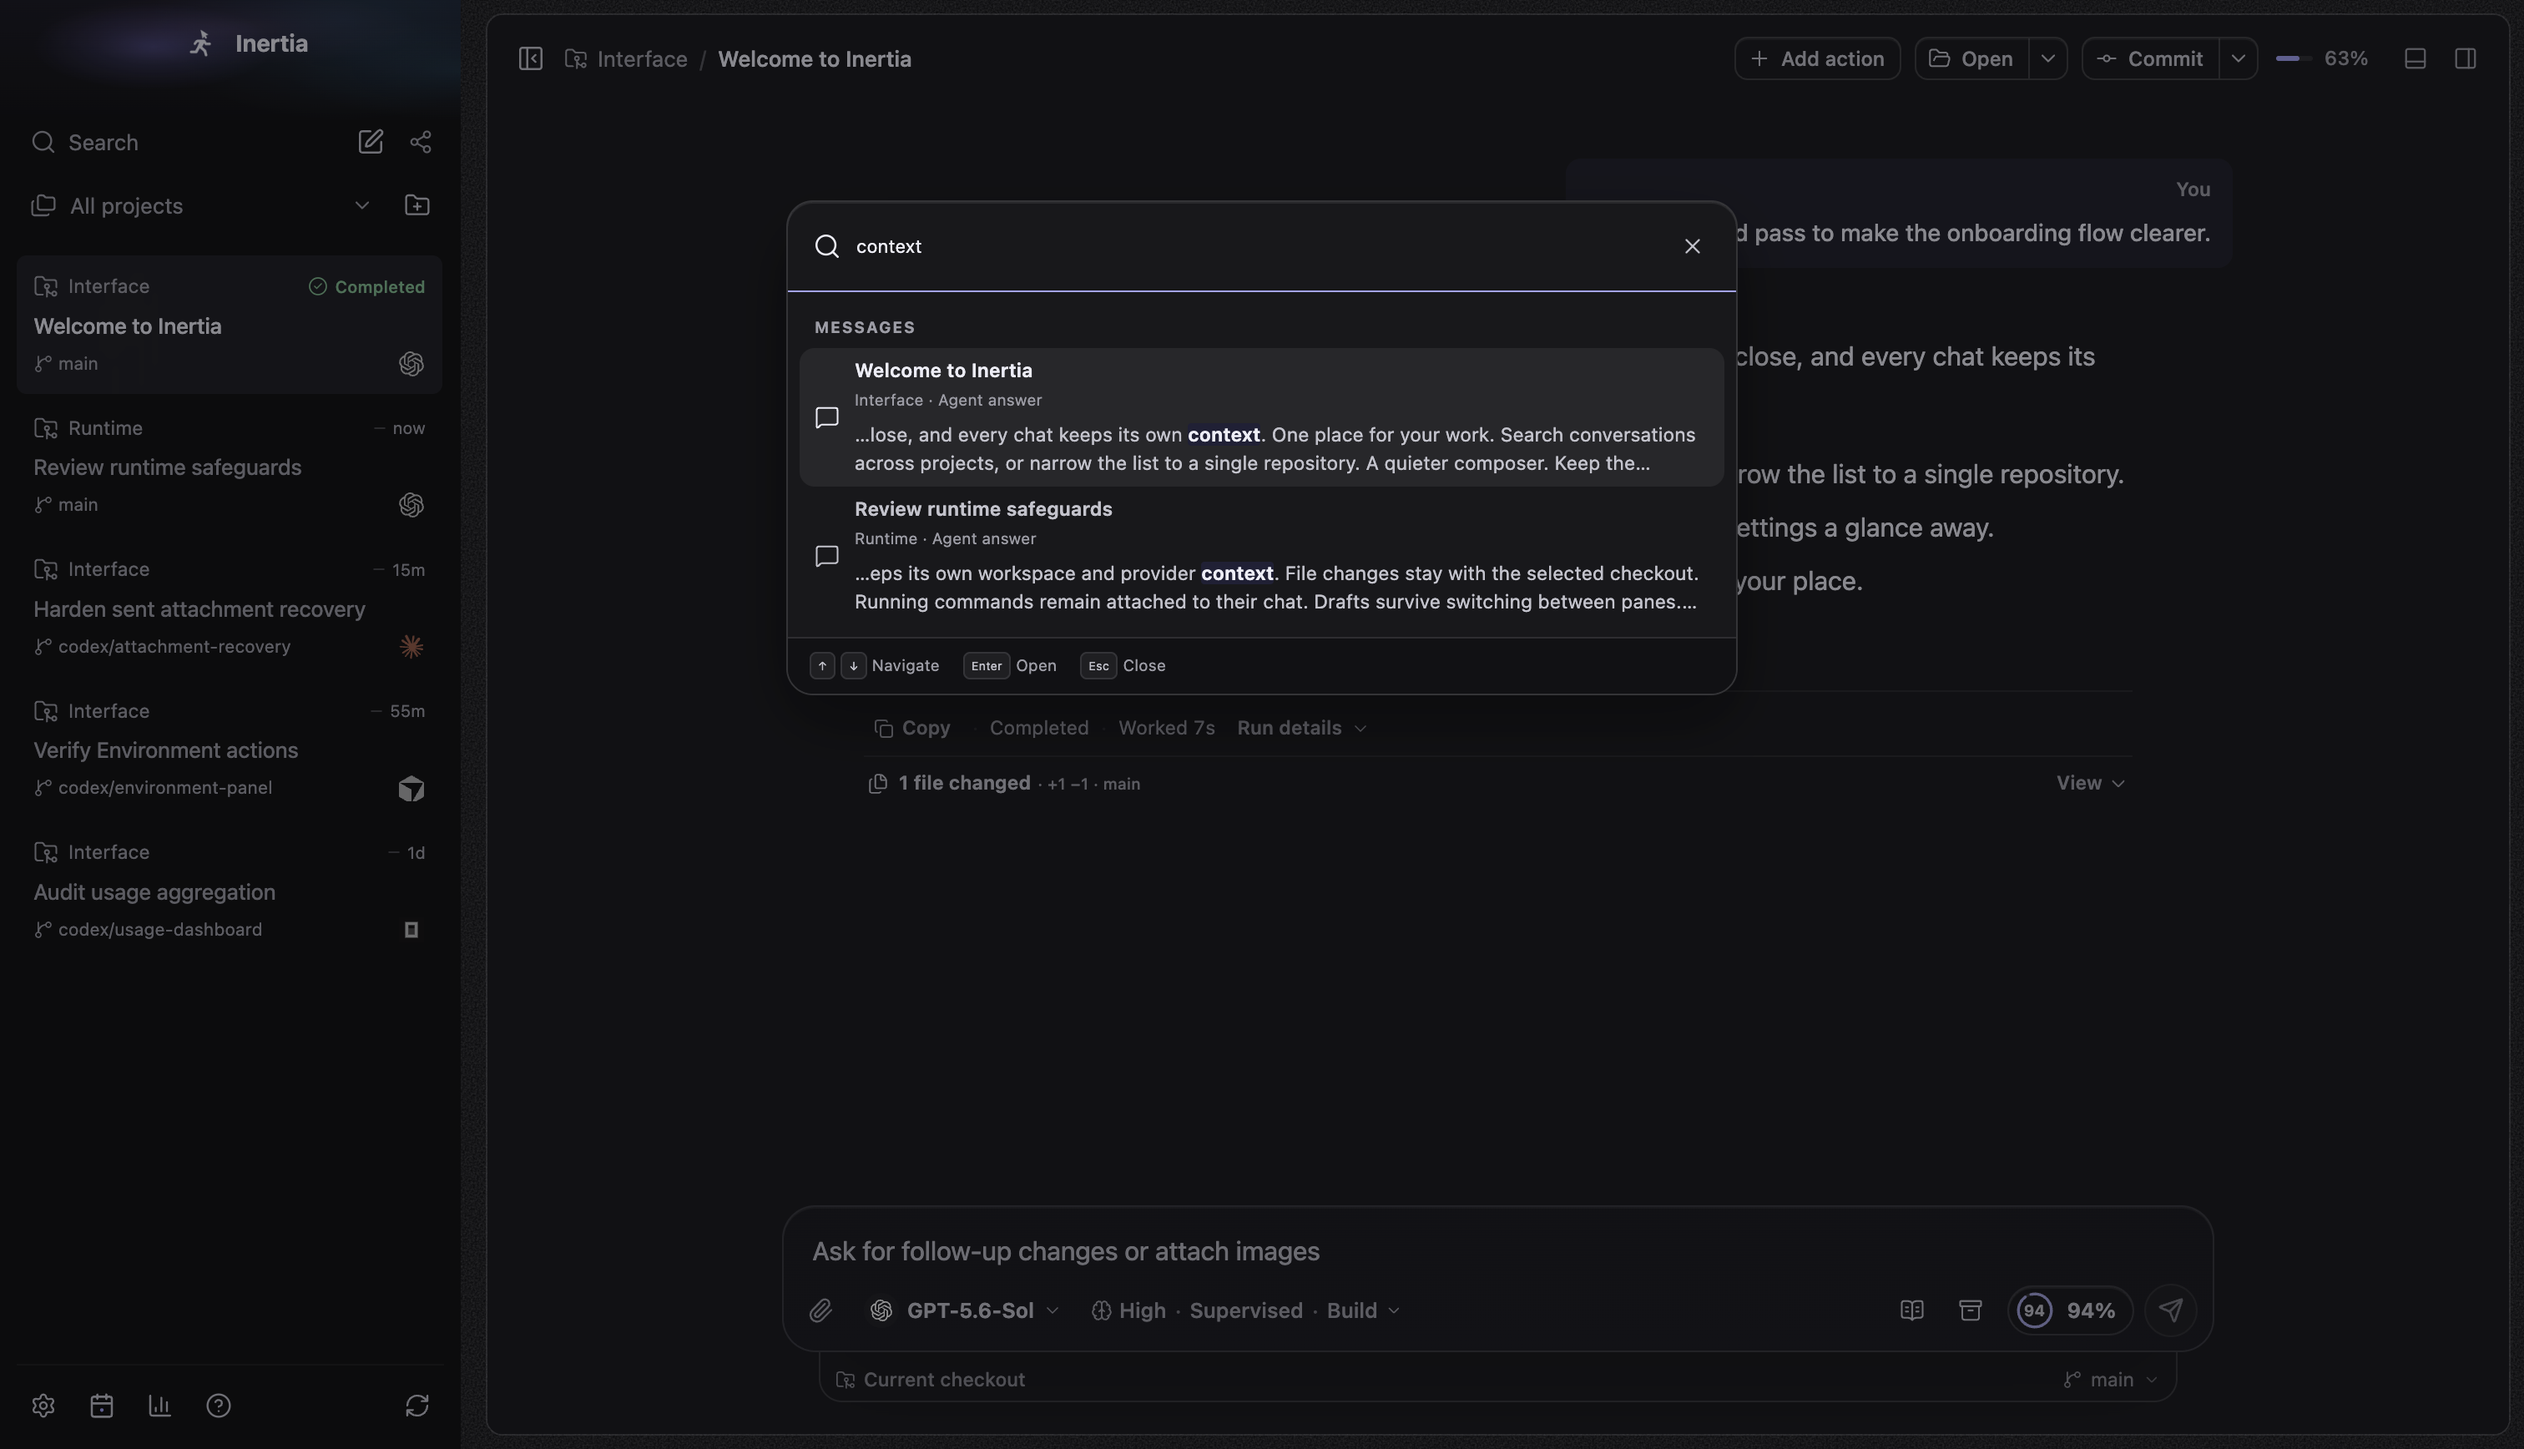
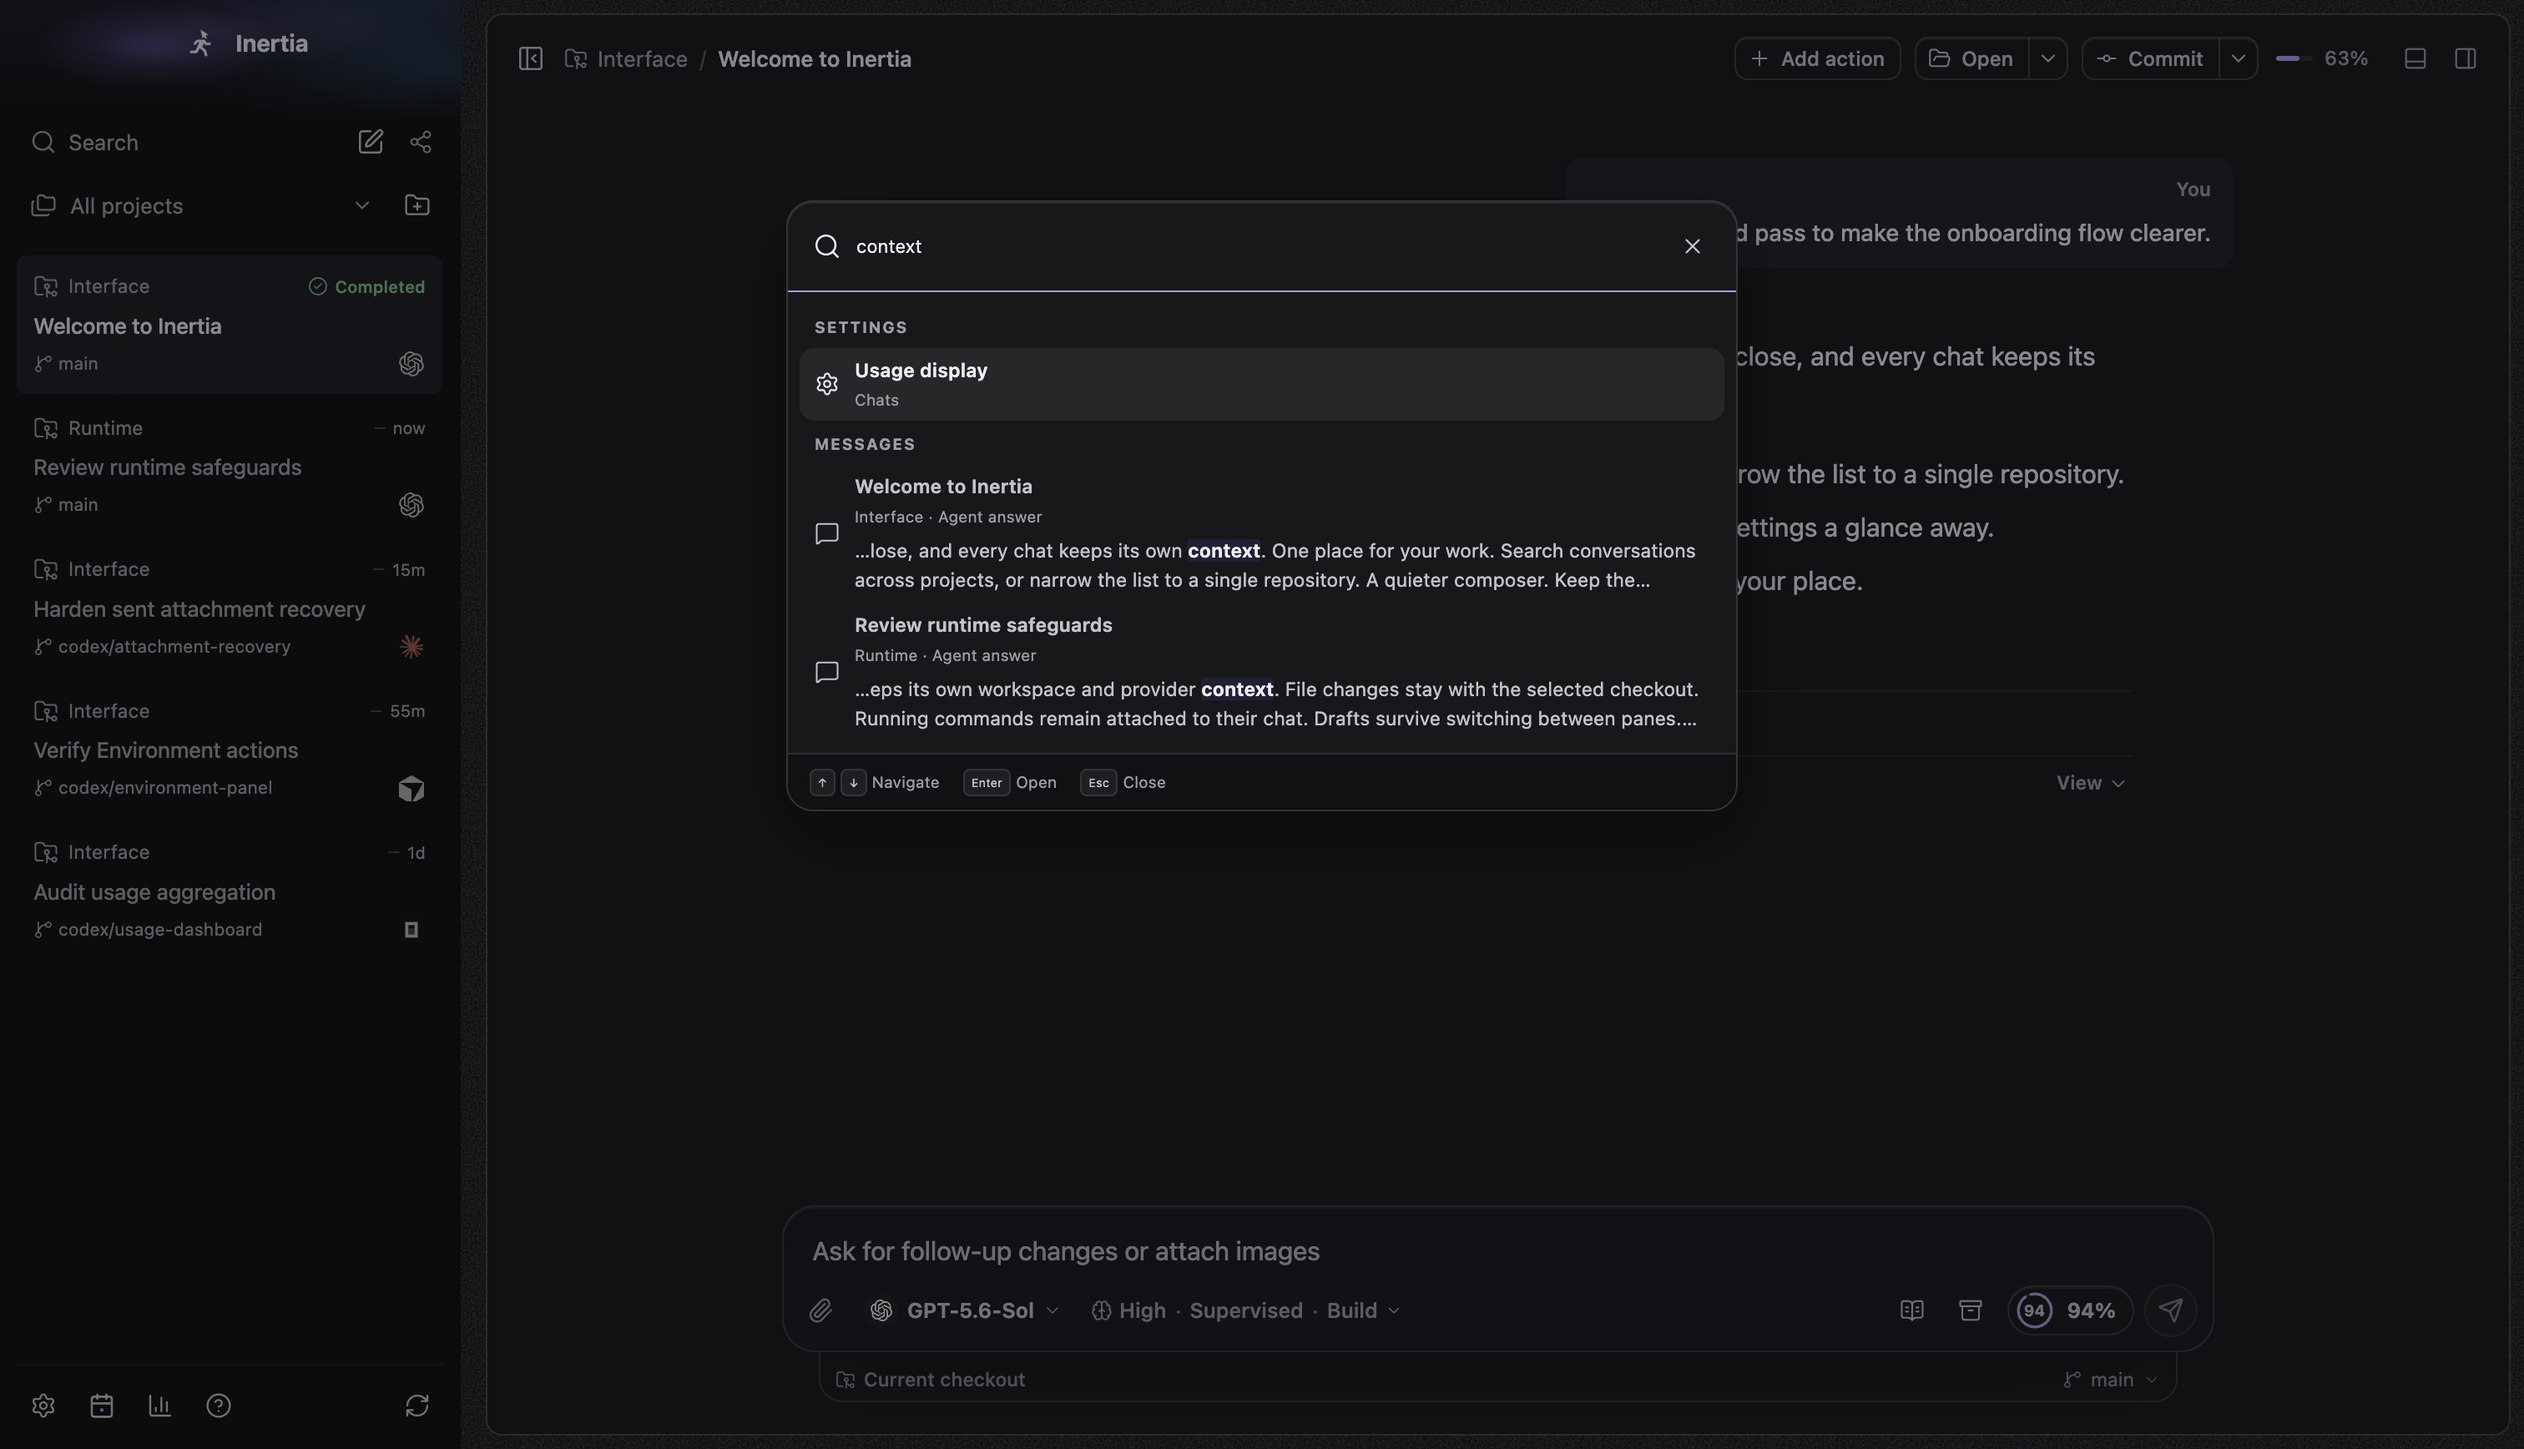
Recapture the message search README view with settings results
Since #570 the command palette lists one entry per setting, so searching "context" now shows the Usage display setting above the message results. The recaptured view replaces the old one and the README names settings among what the palette finds. The other eight views are byte-identical to main or, for the image preview, differ only in the previewed file's size label, so they are kept.

Changed region(s): [[0.3108, 0.2177, 0.6839, 0.5599]]

diff --git a/README.md b/README.md
@@ -20,7 +20,7 @@ Inertia brings agent conversations, project files, Git review, and terminals int
 2. Add a local folder or clone a repository from its HTTPS or SSH Git URL.
 3. Open **Settings → Agents**, connect a provider, and start a chat.
 
-Use **Ctrl/Cmd+K** to find commands, projects, chats, and saved messages. Type at least two characters to search your messages and final agent answers across unarchived chats, then open a snippet to jump to its turn, including in a detached chat window. Message search matches literal phrases, ignores case, and shows up to 20 newest matches. Very large histories may return partial results, which the palette labels explicitly.
+Use **Ctrl/Cmd+K** to find commands, settings, projects, chats, and saved messages. Type at least two characters to search your messages and final agent answers across unarchived chats, then open a snippet to jump to its turn, including in a detached chat window. Message search matches literal phrases, ignores case, and shows up to 20 newest matches. Very large histories may return partial results, which the palette labels explicitly.
 
 ![Search saved messages and agent answers across projects](docs/screenshots/inertia-message-search.png)
 
